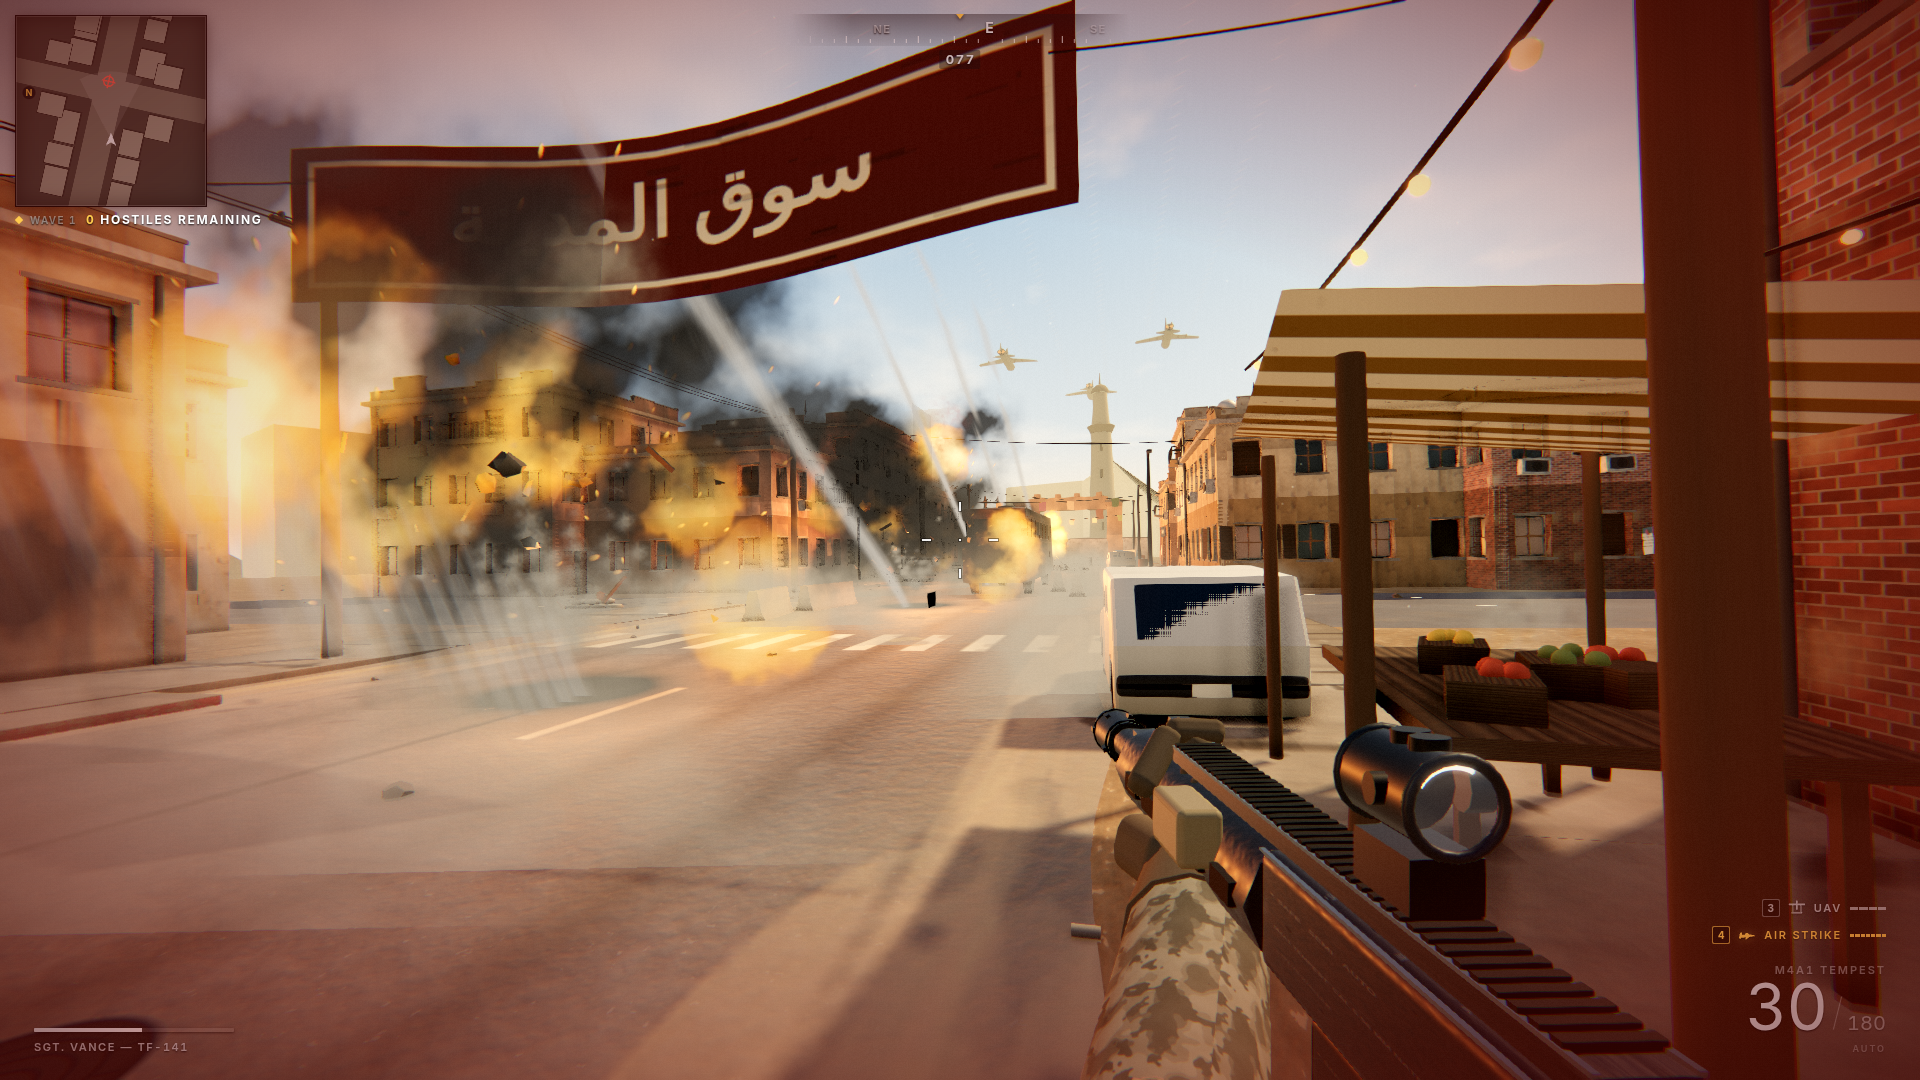
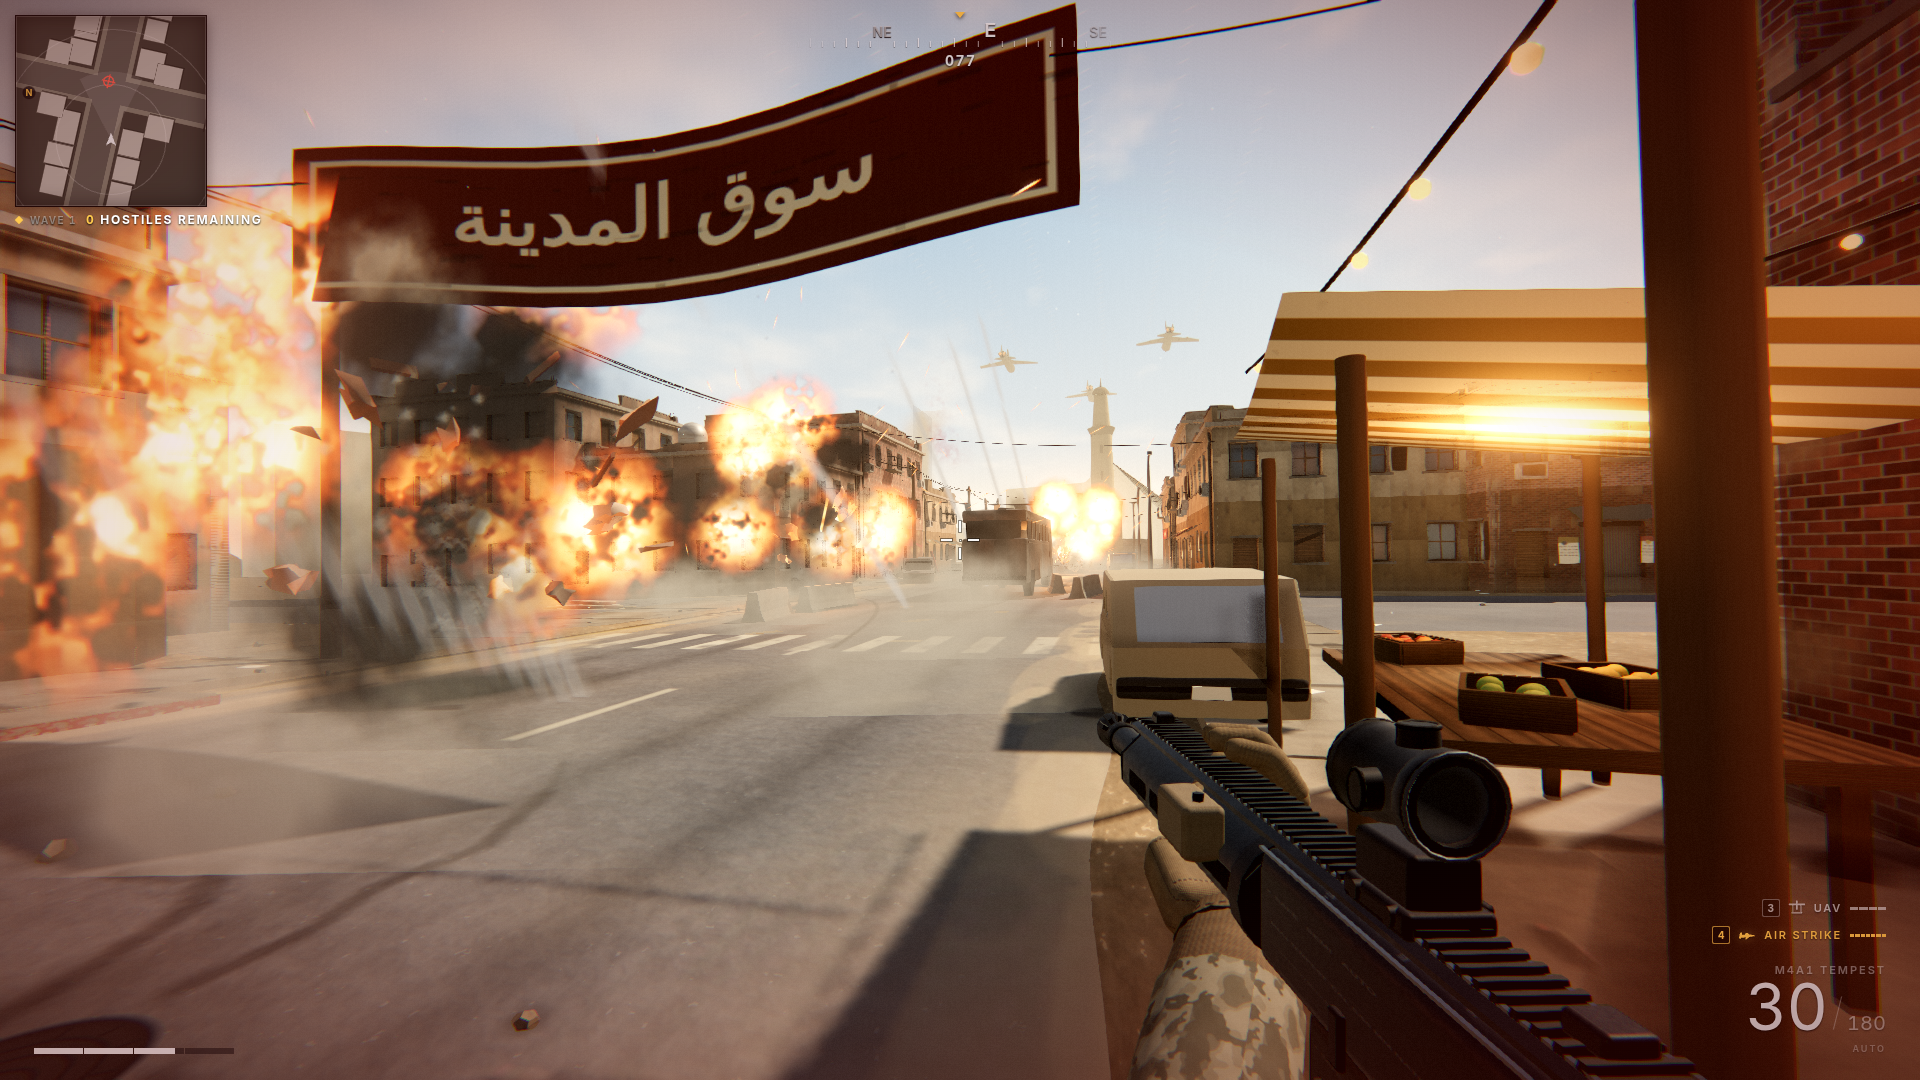
Post-capture polish: vm spark/petal scale, matte optic bezel, brass de-flare, tiny eject glint, varied car paint

diff --git a/src/fx/particles.js b/src/fx/particles.js
@@ -1110,7 +1110,7 @@ export class FX {
       // Layer B — two radial petal sprites at random rotation/scale merge
       // into a 4-6 petal star that never repeats shot to shot.
       const petals = vm ? this.petalVM : this.petal;
-      const pScale = (vm ? 0.21 : 0.34) * mul;
+      const pScale = (vm ? 0.17 : 0.34) * mul;
       petals.spawn({
         pos: this._v.copy(pos).addScaledVector(dir, 0.02),
         life: 0.04, size0: pScale * (0.9 + Math.random() * 0.35), size1: pScale * 0.75,
@@ -1135,8 +1135,9 @@ export class FX {
         this._q1.setFromUnitVectors(_FWD, dir);
         this._q2.setFromAxisAngle(dir, Math.random() * Math.PI * 2);
         tn.mesh.quaternion.multiplyQuaternions(this._q2, this._q1);
-        const w = Math.min(1.2, (0.85 + Math.random() * 0.3) * mul);
-        const l = Math.min(1.1, (0.78 + Math.random() * 0.3) * mul);
+        const cap = vm ? 0.9 : 1.2;
+        const w = Math.min(cap, (0.85 + Math.random() * 0.3) * mul);
+        const l = Math.min(cap, (0.78 + Math.random() * 0.3) * mul);
         tn.mesh.scale.set(w, w, l);
       }
       // 2-frame muzzle light (player only — enemies at range don't need it
@@ -1145,7 +1146,7 @@ export class FX {
         this.muzzleLight.position.copy(pos);
         this.muzzleLight.visible = true;
         this._muzzleAge = 0;
-        this._muzzleIntensity = 55 * mul;
+        this._muzzleIntensity = 36 * mul;
       }
     }
 
@@ -1170,7 +1171,10 @@ export class FX {
         life: 0.06 + Math.random() * 0.09,
         size0: 0.014, size1: 0.006,
         color0: C_SPARK0, color1: C_SPARK1,
-        alpha0: 1, alpha1: 0, fadeIn: 0, stretch: 1,
+        // vm sparks are ~0.5m from the lens: the velocity-streak minimum
+        // length (0.22m) subtends ~20 deg there and reads as giant rays.
+        // Fixed short streaks (-3 * size0 = ~4cm) keep them needle-fine.
+        alpha0: 1, alpha1: 0, fadeIn: 0, stretch: vm ? -3 : 1,
       });
     }
 

diff --git a/src/world/map.js b/src/world/map.js
@@ -782,14 +782,15 @@ export function buildMap(scene, colliders) {
   minimapShapes.push({ type: 'p', x: 10, z: 1.2, w: 10, d: 3 });
   addCover(3.5, 1.5); addCover(16.5, 1);
 
-  // Parked / abandoned cars — explicit mid-value dusty paint (the random
-  // palette could deal a near-white body that rendered full-bright and
-  // read as an unlit blockout in the menu/vista frames)
+  // Parked / abandoned cars — explicit but VARIED muted paint (dusty white /
+  // faded red / desaturated blue / gunmetal / sand). The baked dust gradient
+  // and panel lines in props.js keep even the pale bodies from reading as
+  // unlit blockouts, and street-level colour variety is a big MWII tell.
   const carDefs = [
-    [-38, 6.3, 0.15, { color: 0x8a7c64 }], [-24, -6.6, -0.1, { color: 0x6e7266 }], [-13, 6.5, 3.2, { hatch: true, color: 0x86755a }],
-    [20, -6.2, 0.28, { burned: true }], [30, 5.9, -3.05, { hatch: true, color: 0x5f6a72 }], [44, -5.8, 0.1, { burned: true }],
-    [-45, -6.4, 0.05, { pickup: true, color: 0x7d6a56 }], [38, 6.4, 2.9, { pickup: true, color: 0x84796a }],
-    [-34, -6.3, 0.18, { hatch: true, color: 0x74705e }], // hatchbacks break the sedan monoculture
+    [-38, 6.3, 0.15, { color: 0x5a6c7c }], [-24, -6.6, -0.1, { color: 0xcfc8b8 }], [-13, 6.5, 3.2, { hatch: true, color: 0x9c4a3c }],
+    [20, -6.2, 0.28, { burned: true }], [30, 5.9, -3.05, { hatch: true, color: 0x55565a }], [44, -5.8, 0.1, { burned: true }],
+    [-45, -6.4, 0.05, { pickup: true, color: 0x55565a }], [38, 6.4, 2.9, { pickup: true, color: 0xcfc8b8 }],
+    [-34, -6.3, 0.18, { hatch: true, color: 0xb2a17e }], // hatchbacks break the sedan monoculture
   ];
   for (const [x, z, yaw, o] of carDefs) {
     place(buildCar(o), x, z, yaw, { collH: 1.5 });

diff --git a/src/weapons/models.js b/src/weapons/models.js
@@ -811,15 +811,15 @@ export function buildRifleViewmodel() {
       optic.add(b);
     }
   }
-  // Rear-ring catch light: a hair-thin brighter bezel so the black housing
-  // separates from dark backdrops (burnt vehicles, shadowed walls).
+  // Rear-ring bezel: matte dark separation line only. (A brighter metal
+  // ring here flared into a glowing "LED halo" under the muzzle light.)
   {
-    const bezel = new THREE.Mesh(new THREE.TorusGeometry(0.0164, 0.0009, 4, 18),
-      new THREE.MeshStandardMaterial({ color: 0x565a60, roughness: 0.28, metalness: 0.85, envMapIntensity: 1.3 }));
+    const bezel = new THREE.Mesh(new THREE.TorusGeometry(0.0164, 0.0009, 6, 28),
+      new THREE.MeshStandardMaterial({ color: 0x2c2f33, roughness: 0.55, metalness: 0.5, envMapIntensity: 0.35 }));
     bezel.position.z = 0.0285;
     optic.add(bezel);
-    const bezelF = new THREE.Mesh(new THREE.TorusGeometry(0.0171, 0.0008, 4, 18),
-      new THREE.MeshStandardMaterial({ color: 0x3a3d41, roughness: 0.32, metalness: 0.85, envMapIntensity: 0.7 }));
+    const bezelF = new THREE.Mesh(new THREE.TorusGeometry(0.0171, 0.0008, 6, 28),
+      new THREE.MeshStandardMaterial({ color: 0x232629, roughness: 0.6, metalness: 0.5, envMapIntensity: 0.3 }));
     bezelF.position.z = -0.0335;
     optic.add(bezelF);
   }

diff --git a/src/weapons/weapons.js b/src/weapons/weapons.js
@@ -201,10 +201,11 @@ export class WeaponSystem {
     const back = new THREE.Vector3(0, 0, 1).applyQuaternion(camQ).normalize();
     const ejectPos = this.vm.ejectPort.getWorldPosition(new THREE.Vector3()).addScaledVector(right, 0.05);
     this.casings.eject(ejectPos, right, back);
-    // 1-frame additive glint at the eject moment — sun catching the brass
+    // 1-frame additive glint at the eject moment — sun catching the brass.
+    // Tiny: at ~0.4m from the world camera even 2cm reads as a sparkle.
     this.fx.flash.spawn({
-      pos: ejectPos.clone(), life: 0.04,
-      size0: 0.045, size1: 0.02, alpha0: 0.85, alpha1: 0, fadeIn: 0, rot: Math.random() * 6.3,
+      pos: ejectPos.clone(), life: 0.035,
+      size0: 0.02, size1: 0.01, alpha0: 0.55, alpha1: 0, fadeIn: 0, rot: Math.random() * 6.3,
     });
     this.audio.gunshot({ vol: 1, caliber: def.caliber });
     this.audio.casing();

diff --git a/src/fx/tracers.js b/src/fx/tracers.js
@@ -177,7 +177,8 @@ export class CasingSystem {
     const roughMap = new THREE.CanvasTexture(brassRoughCanvas());
     roughMap.wrapS = roughMap.wrapT = THREE.RepeatWrapping;
     const mat = new THREE.MeshStandardMaterial({
-      color: 0xc8a24a, roughness: 0.22, metalness: 0.95, roughnessMap: roughMap,
+      color: 0xc8a24a, roughness: 0.36, metalness: 0.9, roughnessMap: roughMap,
+      envMapIntensity: 0.7, // brass must sparkle, not flare into a gold bloom bar
     });
     this.mesh = new THREE.InstancedMesh(geo, mat, capacity);
     this.mesh.instanceMatrix.setUsage(THREE.DynamicDrawUsage);
